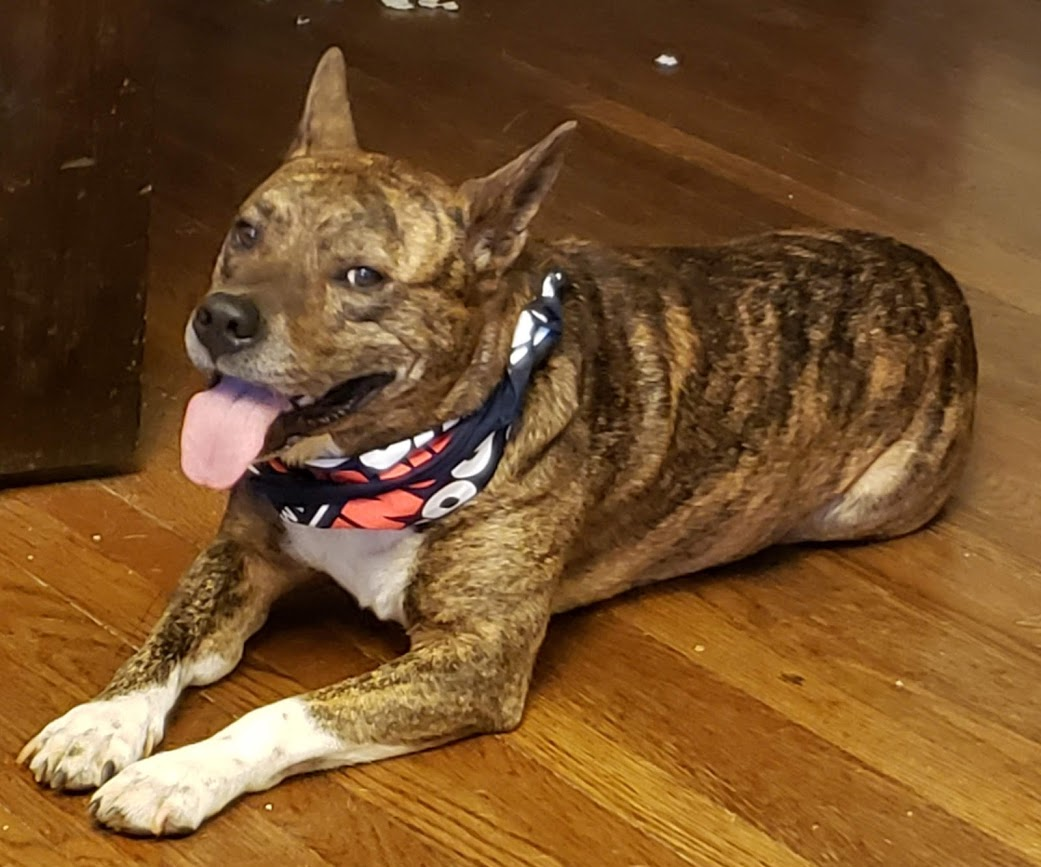
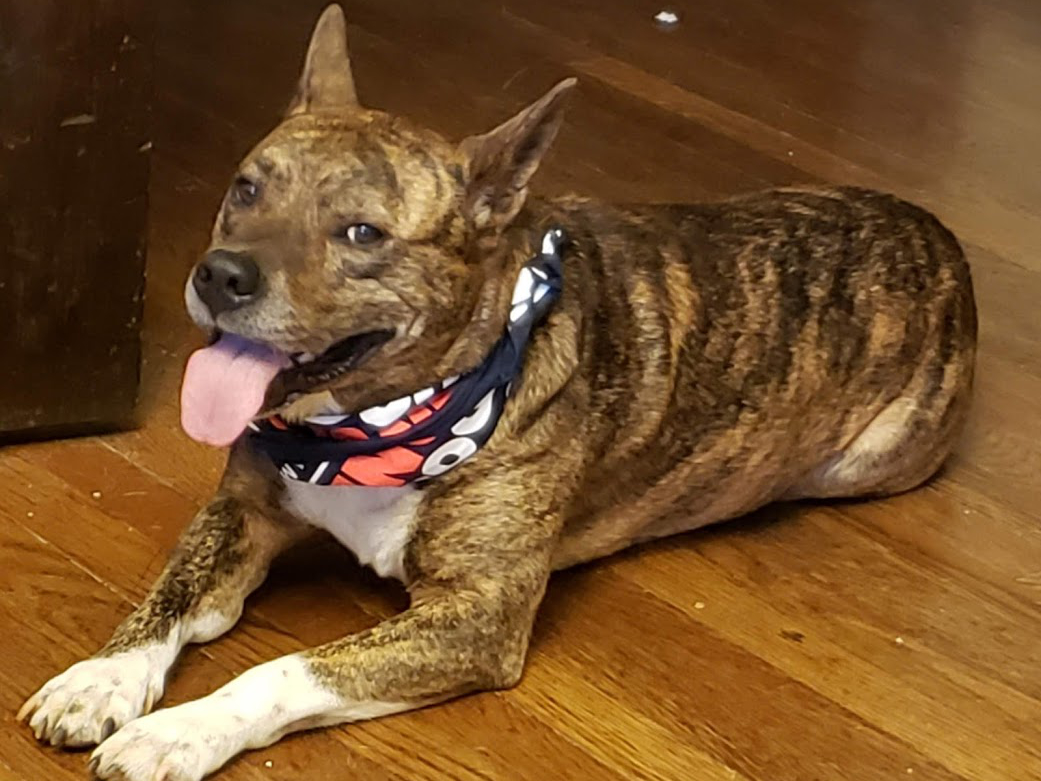
ratios

diff --git a/index.html b/index.html
@@ -5,6 +5,11 @@
     <meta name="viewport" content="width=device-width, initial-scale=1.0">
     <link rel="stylesheet" href="https://cdn.jsdelivr.net/npm/bulma@0.9.1/css/bulma.min.css">:
     <title>4321Wed!</title>
+<style>
+figcaption {
+	z-index:1;
+}
+</style>
 </head>
 <body>
 	<section class="section">
@@ -19,29 +24,27 @@
    <figure class="image is-16by9">
 	  <img class="has-ratio" src="./images/wedding_photo.jpg">
    </figure>
-     <h4>Bride and Groom</h4>
+     <h4 class="title is-3">Bride and Groom</h4>
    <div class="columns">
 	   <div class="column">
-   <h5>Bride</h5>
-<h5>Kristina Maria Visscher</h5>
-   <figure class="image is-16by9">
-	  <img class="has-ratio" src="./images/kristina_pic.jpg">
-	  <figcaption>Kristina Fighting Vikings in Iceland</figcaption>
+   <h5 class="title is-3">Bride</h5>
+<h5 class="subtitle is-5">Kristina Maria Visscher</h5>
+   <figure class="image is-4by3">
+	  <img class="has-ratio" width="1024" height="768" src="./images/kristina_pic_r.jpg">
    </figure>
 <p>Kristina is an Alabama native and works at the University of Alabma Birmingham as a Neurscientist. She studies what happens to peoples vision by sticking them in tubes and making them listen to loud clicking noises. She is very good at her job and has many friends who would say the same thing. She is passionate about Brains, Climate Change, Bikes, Iceland and Farro. She is very funny and beautiful. This paragraph was written by her future husband.</p>
 
 	   </div><div class="column">
-		   <h5>Groom</h5>
-<h5>Jeremy Gilder Gordinier</h5>
-   <figure class="image is-16by9">
-	  <img class="has-ratio" src="./images/jeremy_pic.jpg">
-	  <figcaption>Jeremy eating the world's hottest pepper</figcaption>
+		   <h5 class="title is-3">Groom</h5>
+<h5 class="subtitle is-5">Jeremy Gilder Gordinier</h5>
+   <figure class="image is-4by3">
+	  <img class="has-ratio" width="1024" height="768" src="./images/jeremy_pic.jpg">
    </figure>
 <p>Jeremy is an Alabama transplant. He is a secret yankee. He works at the Girl Scouts of North-Central Alabama. He makes signs and banners and websites and patches. Sometimes he laughs while he is working. Other times he is very serious. He is passionate about Graphic Design, Music, Cooking, Books and Oatmeal. He is very strong and handsome. This paragraph was also written by him</p>
 	   </div></div>
    <div class="columns"><div class="column">
 		   <h5>Dog</h5>
-   <figure class="image is-16by9">
+   <figure class="image is-4by3">
 	  <img class="has-ratio" src="./images/dog.jpg">
    </figure>
 <h5>Kaia Gordinier</h5>
@@ -58,7 +61,7 @@
 <p>So we have placed some items on Amazon if you would like to get them.</p>
 	   </div><div class="column">
 <h5>Epilogue</h5>
-   <figure class="image is-16by9">
+   <figure class="image is-4by3">
 	  <img class="has-ratio" src="./images/masks2.jpg">
    </figure>
 <p>We really hope that you are able to attend. Here are some calendar links and instuctions for using Zoom. Thanks you so much for your support and love over all these years. We cannot wait to be married and hope to see all of you in person very very soon. </p>
